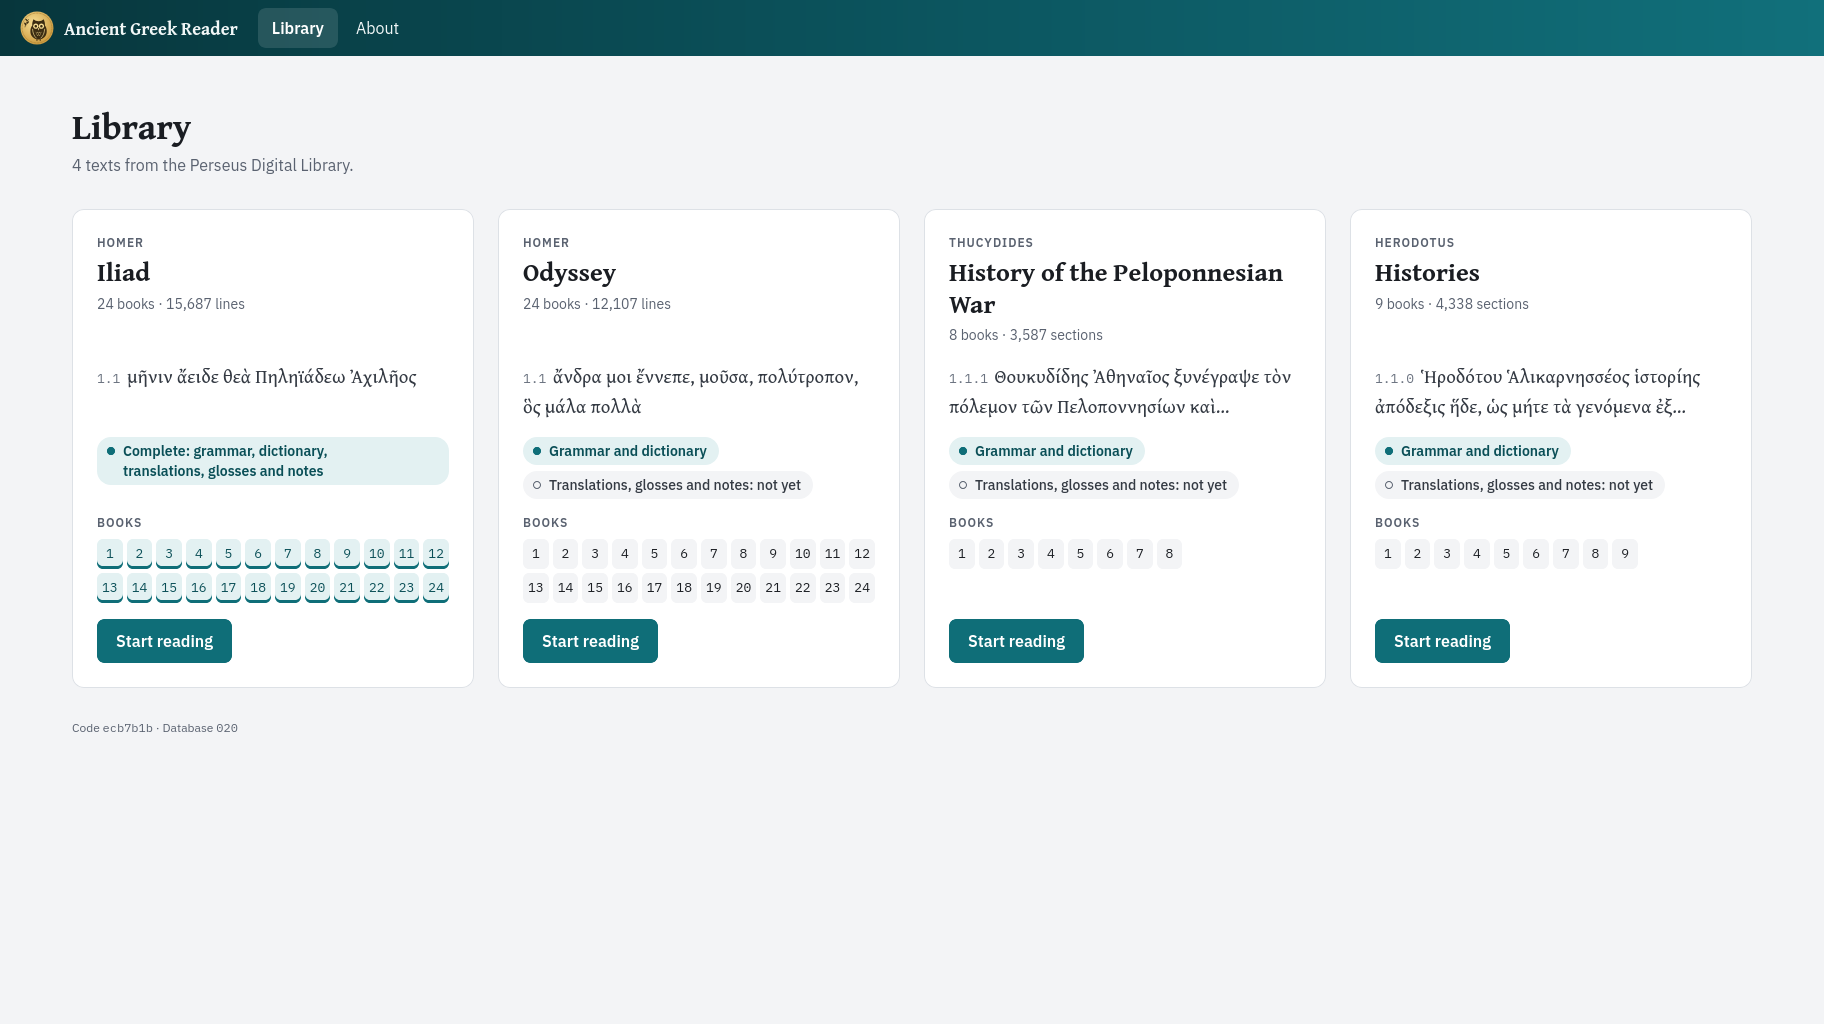
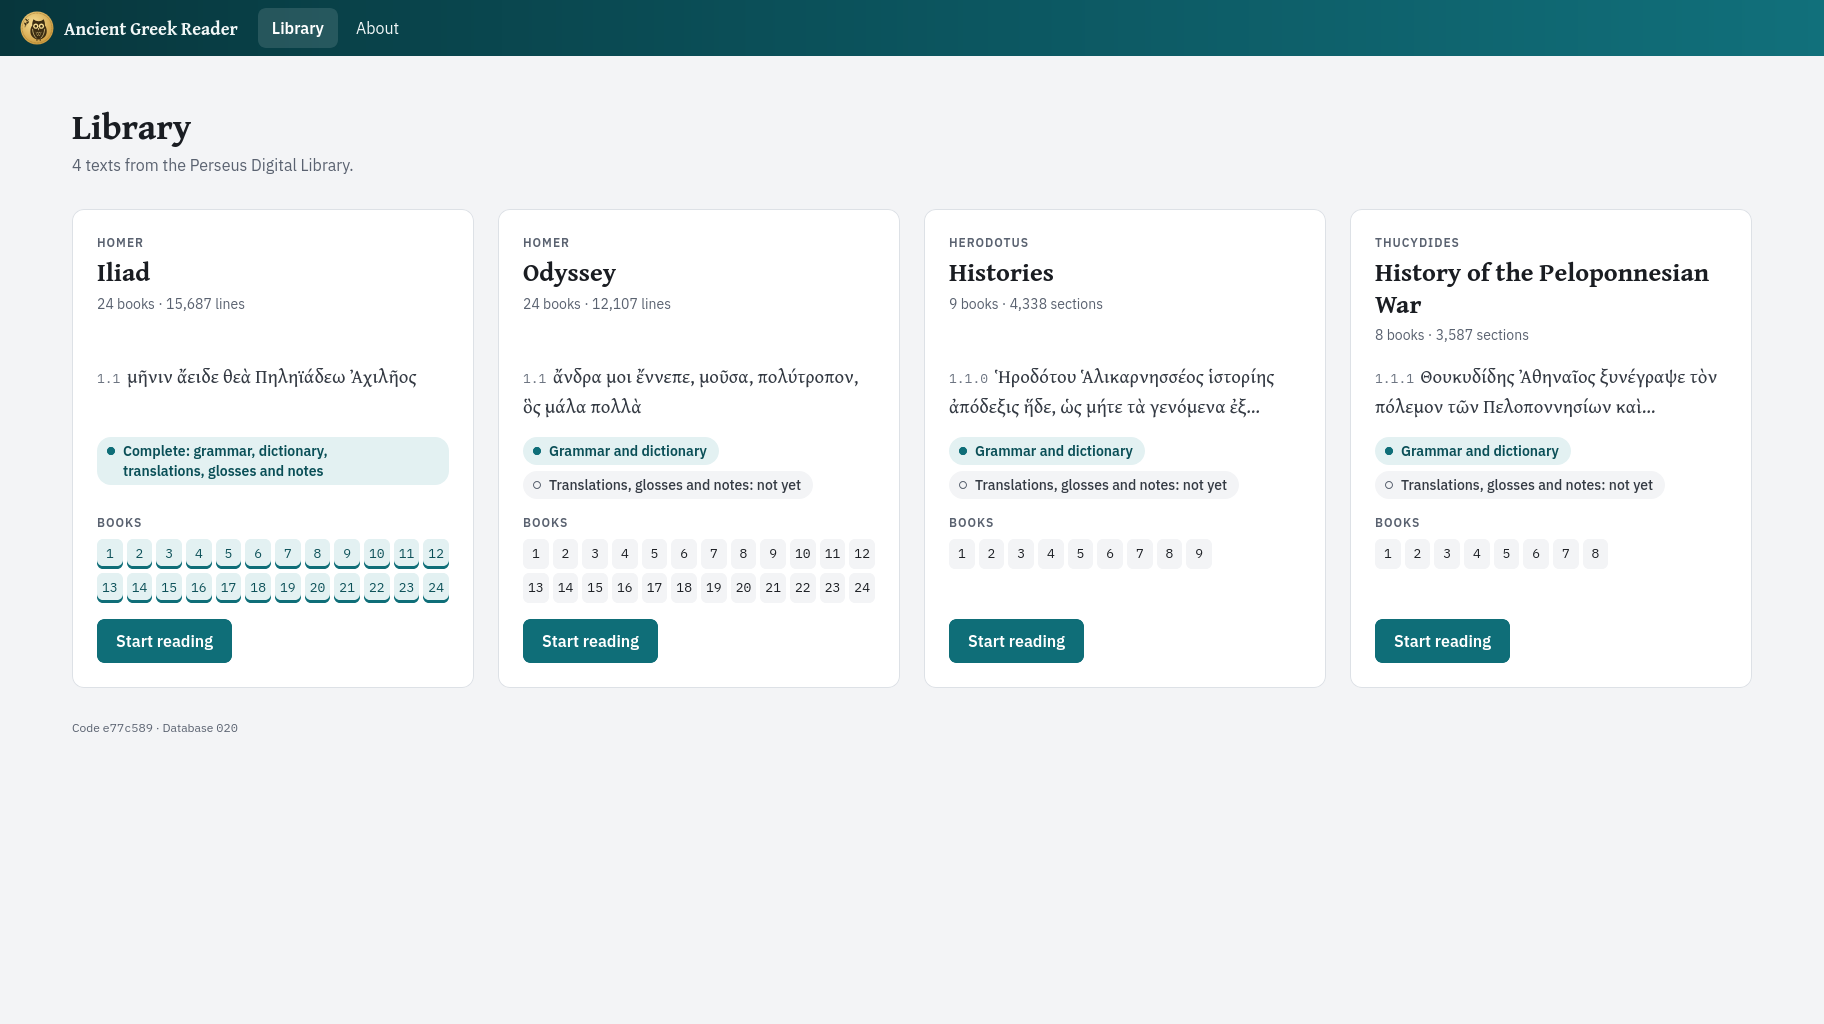
The texts are listed in the order they were written
The Library, About and the reader's list of texts showed the texts in the
order they were imported, so Thucydides came before Herodotus. They now
follow WORKS, which lists the works in the order they were written: the
Iliad, the Odyssey, Herodotus, Thucydides. A text without a treebank comes
after them, as imported.

- reader_data.texts_in_order(): list_texts() sorted by each text's
  treebank work (tb_sources) in WORKS' order, then by ID. The Library,
  About and the reader page use it; Go to, the sitemap, the export and
  `greek library` keep list_texts()'s order.
- WORKS says its order is the texts' order now.
- Tests: the texts imported out of order (a text without a treebank
  first, Thucydides before Herodotus, the Iliad last), in the order
  written from texts_in_order() and on each of the three pages.
- docs/reader.md says how the texts are ordered; the README's Library and
  laptop reader screens are retaken (the iPad and phone screens don't show
  the list).

Changed region(s): [[0.75, 0.2188, 0.9375, 0.4062], [0.5, 0.25, 0.7188, 0.4062], [0.5312, 0.2188, 0.5625, 0.25]]

diff --git a/tests/integration/test_web_text_study.py b/tests/integration/test_web_text_study.py
@@ -18,7 +18,7 @@ from greek.db.repos.parses import list_word_parses, save_tb_source
 from greek.db.repos.study import book_study, covered_units
 from greek.db.repos.texts import insert_text
 from greek.models import BookStudy, TreebankSource
-from greek.web.reader_data import TextStudy
+from greek.web.reader_data import TextStudy, texts_in_order
 from tests.integration.test_notes_batch import _save_study
 from tests.integration.test_word_details import _import_excerpt
 
@@ -340,6 +340,54 @@ def test_about_names_the_books_of_a_partly_translated_text(client, iliad):
     _save_study(db, text_id, [(1, 5)])
     row = client.get("/about").text.split('<th scope="row">Iliad')[1].split("</tr>")[0]
     assert "<td>Book 1</td>" in row
+
+
+# --- the texts' order ---------------------------------------------------------------
+
+# The order the works were written, then a text without a treebank
+WRITTEN = ["Iliad", "Histories", "History of the Peloponnesian War", "Anabasis"]
+
+
+def _import_out_of_order(db):
+    """A text without a treebank first, Thucydides before Herodotus, the Iliad last."""
+    ids = {}
+    for title, author, work, reference in [
+        ("Anabasis", "Xenophon", None, "1.1.1"),
+        ("History of the Peloponnesian War", "Thucydides", "thucydides", "1.1.1"),
+        ("Histories", "Herodotus", "herodotus", "1.0.0"),
+        ("Iliad", "Homer", "iliad", "1.1"),
+    ]:
+        name = work or "anabasis"
+        text_id = insert_text(db, title, author, f"{name}.txt", f"/d/{name}.txt", 1)
+        insert_lines(db, text_id, ["λόγος"], [reference])
+        if work:
+            corpus = "perseus" if work == "iliad" else "glaux"
+            save_tb_source(
+                db, TreebankSource(text_id, work, corpus, f"{name}.xml", "CC BY-SA 4.0")
+            )
+        ids[title] = text_id
+    return ids
+
+
+def test_texts_are_in_the_order_their_works_were_written(web_db):
+    _import_out_of_order(web_db)
+    assert [t.title for t in texts_in_order(web_db)] == WRITTEN
+
+
+@pytest.mark.parametrize(
+    "path, title",
+    [
+        ("/library", r'<h2 class="text-card-title"[^>]*>([^<]+)'),
+        ("/about", r'<th scope="row">([^<]+)'),
+        ("/texts/{text_id}/read", r'<span class="nav-item-title">([^<]+)'),
+    ],
+)
+def test_pages_list_the_texts_in_the_order_they_were_written(
+    client, web_db, path, title
+):
+    ids = _import_out_of_order(web_db)
+    html = client.get(path.format(text_id=ids["Anabasis"])).text
+    assert re.findall(title, html) == WRITTEN
 
 
 @pytest.mark.parametrize("path", ["/library", "/about", "/texts/{text_id}/read"])

diff --git a/greek/web/reader_data.py b/greek/web/reader_data.py
@@ -38,6 +38,7 @@ from greek.db.repos.study import (
     saved_word_uses,
     study_line_glosses,
 )
+from greek.db.repos.texts import list_texts
 from greek.db.repos.verbs import get_verb_parts, list_verb_parts
 from greek.display.analysis import _PUNCT_STRIP
 from greek.api.works import DIALECTS, work_profile
@@ -309,6 +310,20 @@ def text_study(conn: sqlite3.Connection, text: TextMeta) -> TextStudy:
         book_study(conn, text.id, STUDY_MODEL),
         has_word_parses(conn, text.id, 1, text.line_count),
     )
+
+
+def texts_in_order(conn: sqlite3.Connection) -> List[TextMeta]:
+    """
+    The texts in the order their works were written (WORKS' order: Homer,
+    Herodotus, Thucydides), then any without a treebank, as imported.
+    """
+    order = {key: i for i, key in enumerate(WORKS)}
+
+    def written(text: TextMeta) -> Tuple[int, int]:
+        source = get_tb_source(conn, text.id)
+        return (order.get(source.work, len(order)) if source else len(order), text.id)
+
+    return sorted(list_texts(conn), key=written)
 
 
 @dataclass

diff --git a/greek/web/routes/about.py b/greek/web/routes/about.py
@@ -6,11 +6,16 @@ from fastapi.responses import HTMLResponse
 
 from greek.api.study import MODEL as STUDY_MODEL
 from greek.db.repos.parses import annotation_counts, get_tb_source
-from greek.db.repos.texts import list_texts
 from greek.fetch.treebank import WORKS, TreebankWork
 from greek.models import TextMeta
 from greek.web.deps import get_db
-from greek.web.reader_data import GLAUX, PERSEUS_CREDIT, TextStudy, text_study
+from greek.web.reader_data import (
+    GLAUX,
+    PERSEUS_CREDIT,
+    TextStudy,
+    text_study,
+    texts_in_order,
+)
 from greek.web.templates_config import templates
 
 router = APIRouter()
@@ -35,7 +40,7 @@ class AboutText:
 def about(request: Request, db=Depends(get_db)):
     """What the reader is, where each text's data comes from, and the licences."""
     texts: List[AboutText] = []
-    for text in list_texts(db):
+    for text in texts_in_order(db):
         source = get_tb_source(db, text.id)
         counts = annotation_counts(db, text.id)
         total = sum(counts.values())

diff --git a/greek/web/routes/library.py b/greek/web/routes/library.py
@@ -5,11 +5,10 @@ from fastapi import APIRouter, Depends, Request
 from fastapi.responses import HTMLResponse
 
 from greek.db.repos.lines import get_lines, list_books
-from greek.db.repos.texts import list_texts
 from greek.models import Book, Line, TextMeta
 from greek.web.deps import get_db
 from greek.web.formatting import line_unit
-from greek.web.reader_data import TextStudy, text_study
+from greek.web.reader_data import TextStudy, text_study, texts_in_order
 from greek.web.templates_config import templates
 
 router = APIRouter()
@@ -32,7 +31,7 @@ def library(request: Request, db=Depends(get_db)):
     (positions.js).
     """
     cards = []
-    for text in list_texts(db):
+    for text in texts_in_order(db):
         first = get_lines(db, text.id, 1, 1)
         first_line = first[0] if first else None
         cards.append(

diff --git a/greek/web/routes/reader.py b/greek/web/routes/reader.py
@@ -31,6 +31,7 @@ from greek.web.reader_data import (
     study_glosses,
     study_word,
     text_study,
+    texts_in_order,
 )
 from greek.web.reading import (
     LEGACY_PAGE_SIZE,
@@ -145,7 +146,7 @@ def read(
     page_book = text_study(db, text).book_at(pg.start)
     glossless = page_book is None or page_book.state == "none"
 
-    texts = list_texts(db)
+    texts = texts_in_order(db)
     return templates.TemplateResponse(
         request,
         "reader.html",

diff --git a/greek/fetch/treebank.py b/greek/fetch/treebank.py
@@ -69,6 +69,8 @@ class TreebankWork:
 
 
 _PERSEUS = "CC BY-SA 3.0"
+# In the order the works were written: the reader lists its texts so
+# (reader_data.texts_in_order)
 WORKS: Mapping[str, TreebankWork] = {
     w.key: w
     for w in (

diff --git a/docs/reader.md b/docs/reader.md
@@ -6,7 +6,10 @@ serves it at http://127.0.0.1:8000.
 
 ## Library and navigation
 
-Library cards show the first line, what the text has, the books, and **Start
+The texts are in the order they were written (the Iliad, the Odyssey,
+Herodotus, Thucydides) in the Library, on About and in the reader's list of
+texts; a text without a treebank comes after them, in the order it was
+imported. Library cards show the first line, what the text has, the books, and **Start
 reading**, which reads **Continue at …** once you have read the text in this
 browser. A row says what the text has and lacks: **Complete: grammar,
 dictionary, translations, glosses and notes**, or **Grammar and dictionary**
